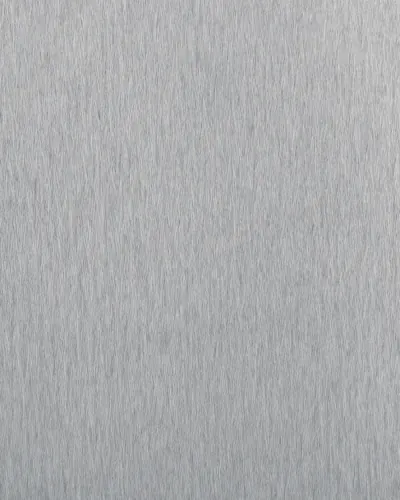
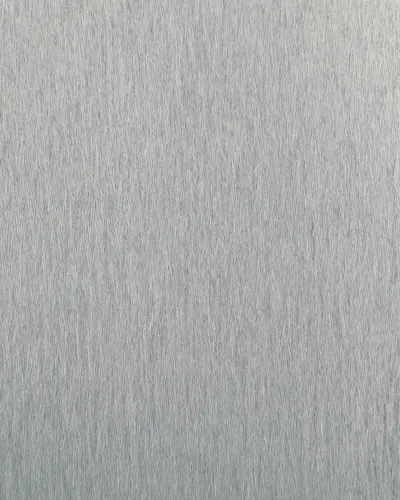
Use a better-lit photograph for the Berlin Arrow Slate swatch
Replaces the sheet added in ec971bf with another shot of the same veneer,
cropped to 4:5. The address moves to ?v=3 so browsers drop the previous
picture.

diff --git a/src/data.js b/src/data.js
@@ -842,7 +842,7 @@ export const PRODUCTS = [
     tones: ['light', 'cool'],
     species: 'Engineered Wood',
     idSpecies: 'Kayu Rekayasa',
-    image: '/assets/image/BERLIN ARROW SLATE.webp?v=2',
+    image: '/assets/image/BERLIN ARROW SLATE.webp?v=3',
     hiResImage: '/assets/hires/BERLIN ARROW SLATE.png',
     bestFor: 'Modern minimalist cabinetry, architectural panels, commercial interiors',
     idBestFor: 'kabinet minimalis modern, panel arsitektural, interior komersial',
